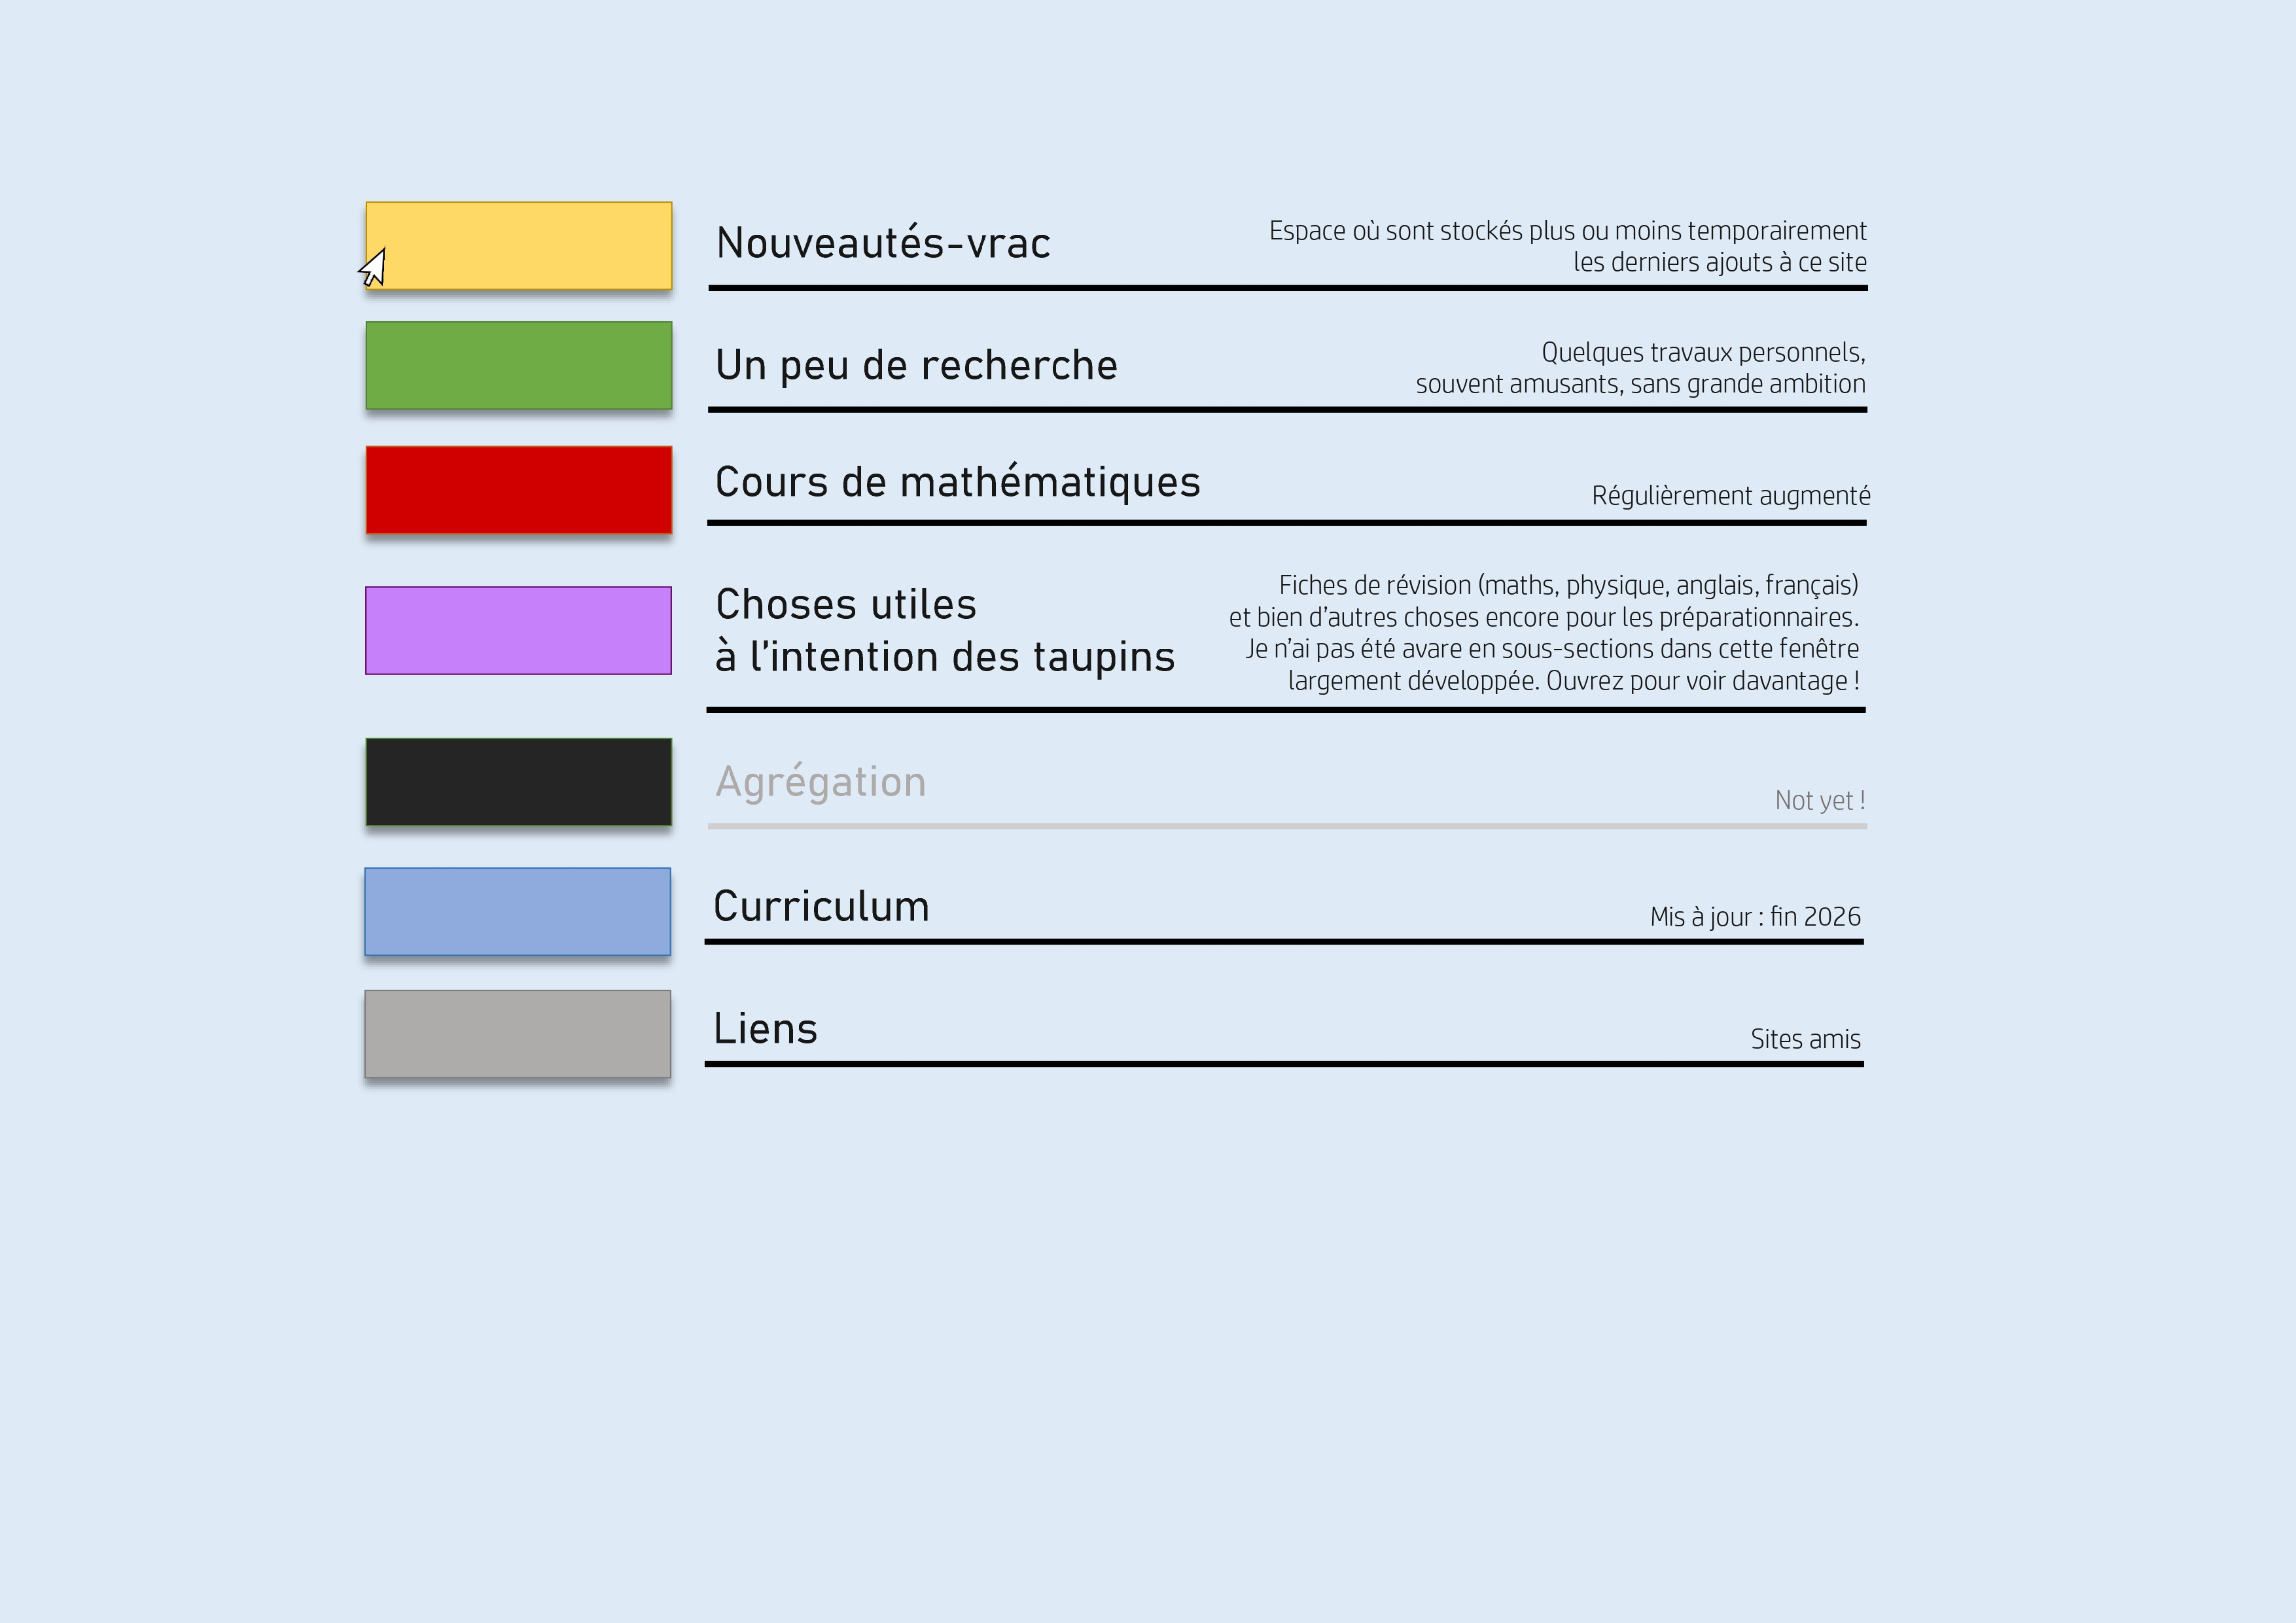
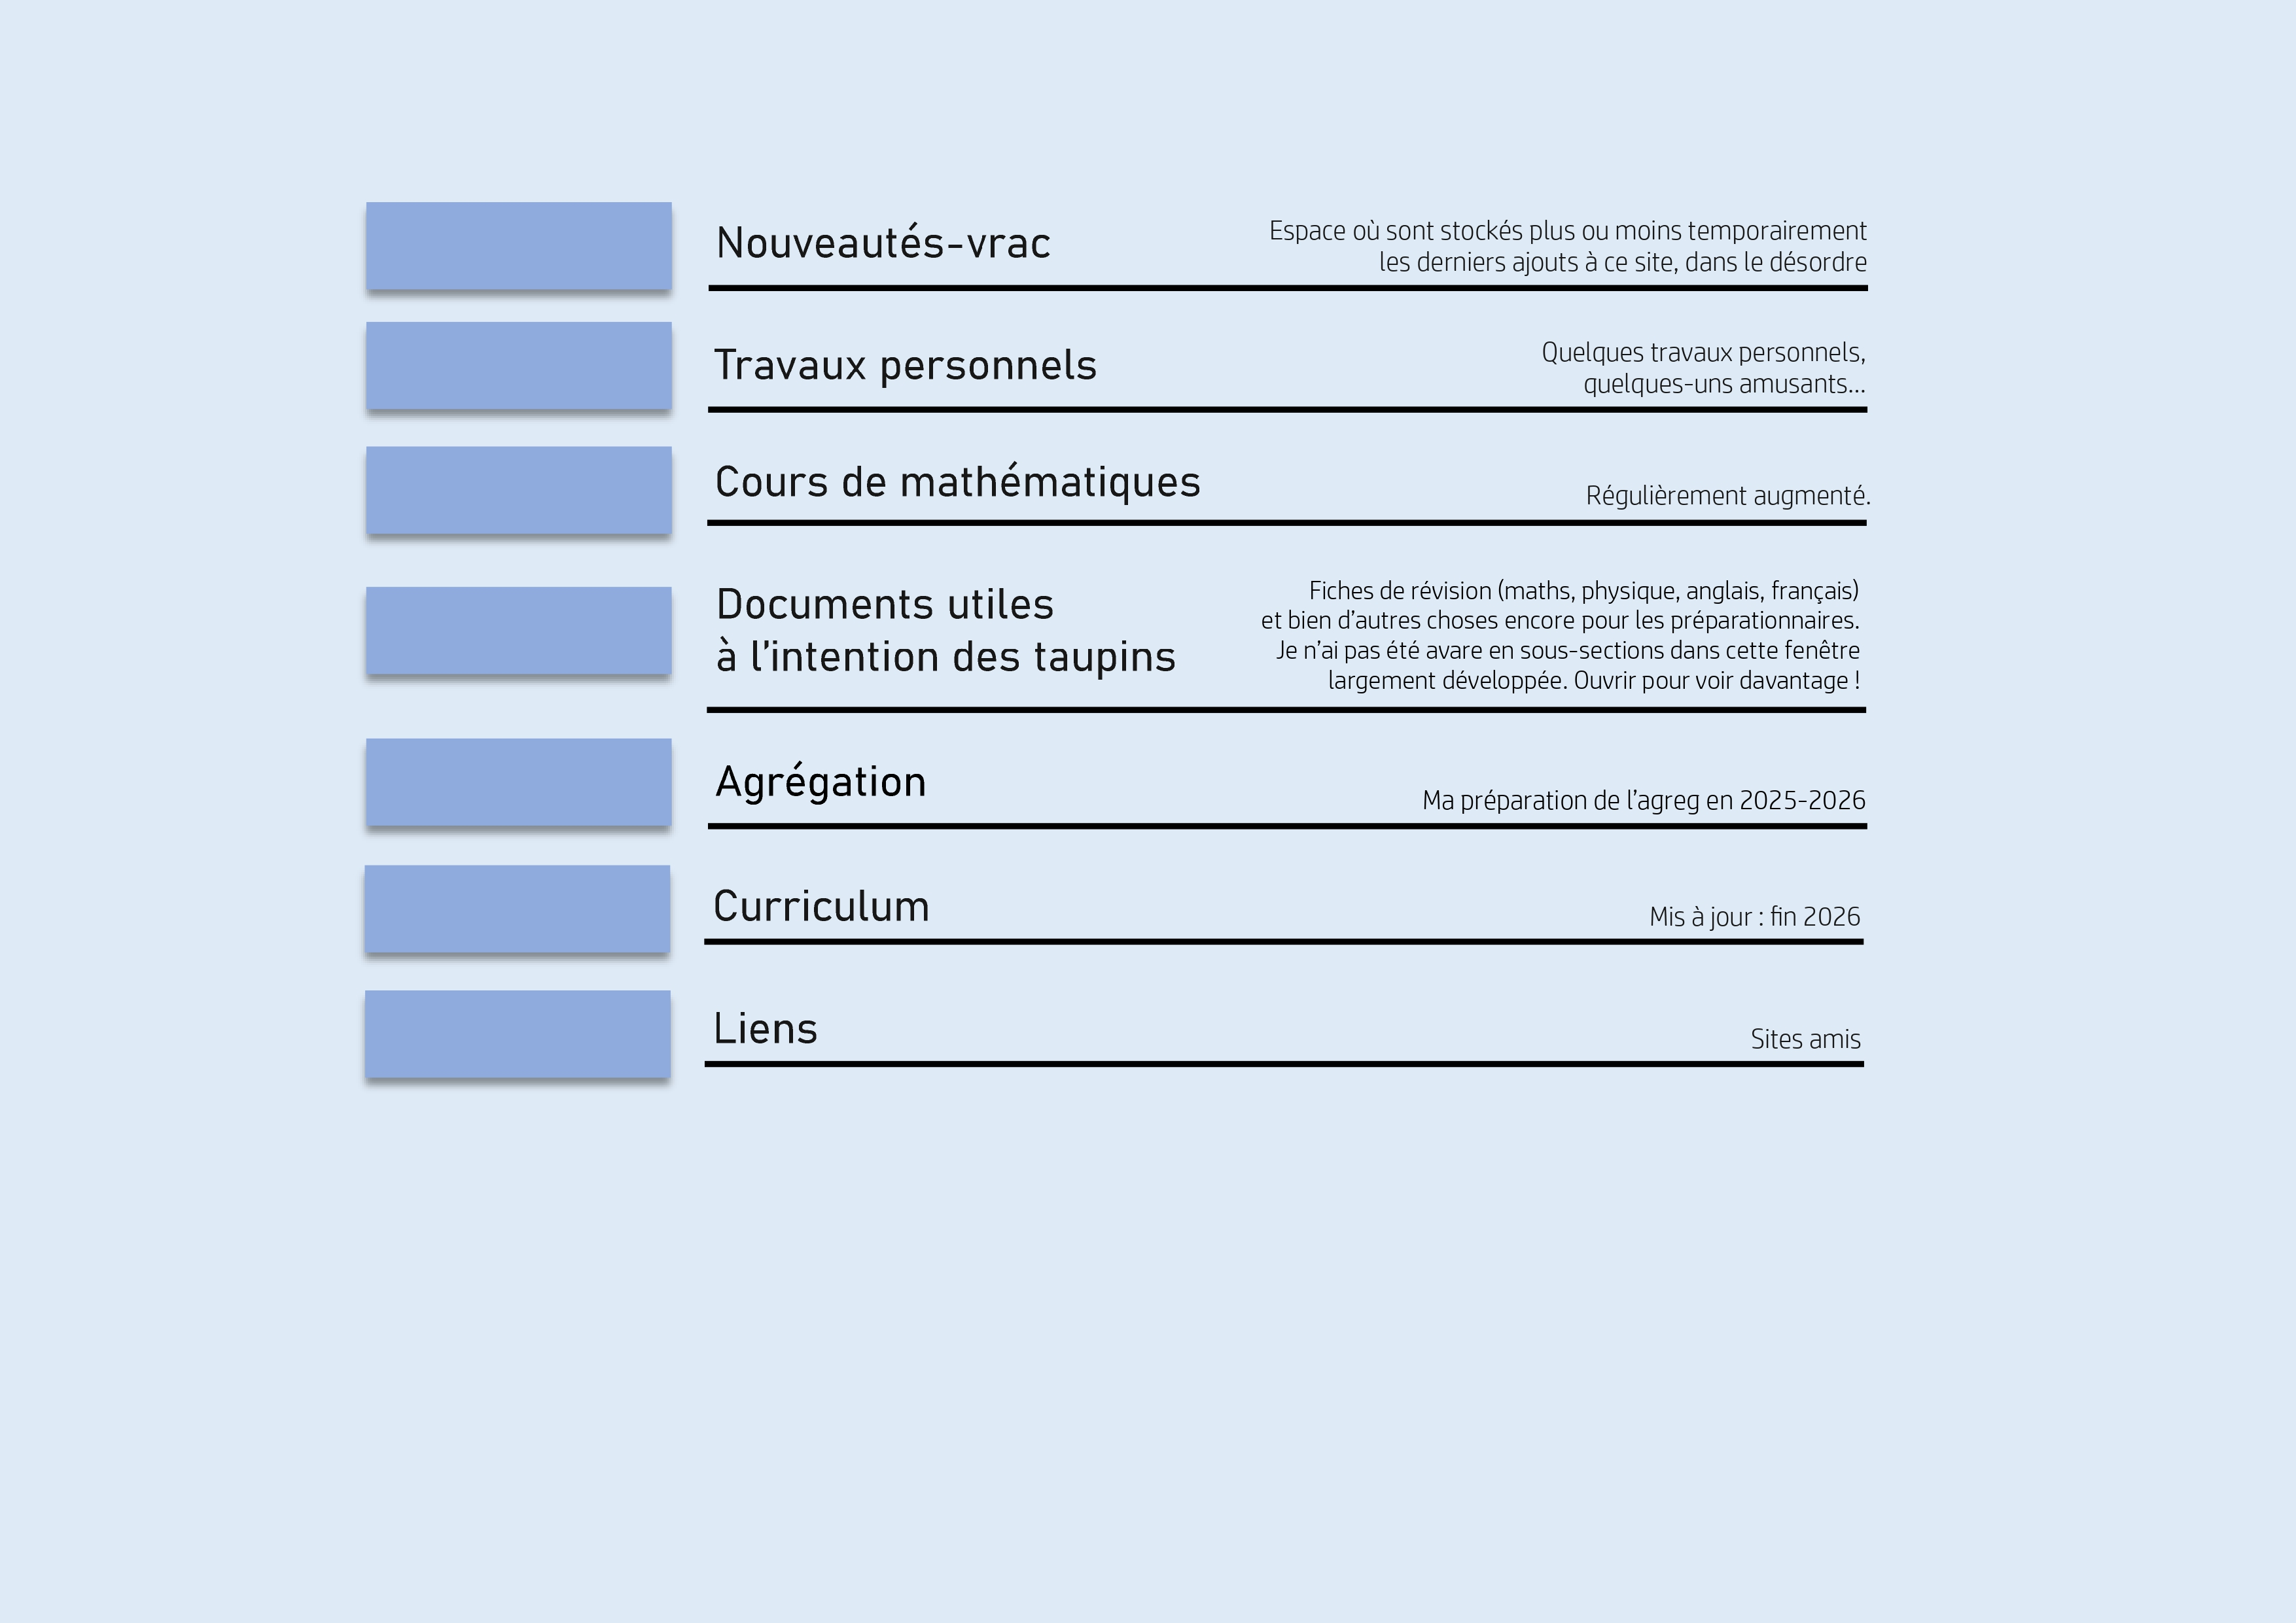
'maj'

diff --git a/Agreg.html b/Agreg.html
@@ -34,7 +34,7 @@
 
 
 <p>
-<i> À venir ! </i>
+<i> Mon compte Agregmaths : </i> <a href="https://agreg-maths.fr/users/67250"> https://agreg-maths.fr/users/67250 <a/>
 </p>
 <br>
 

diff --git a/index.html b/index.html
@@ -4,6 +4,8 @@
 <head>
 	<title>Louis Lascaud - Mathématiques</title>
 
+<meta name="google-site-verification" content="JfslvhLzUBKdWseJdCshv9DRkUrfDwU4v6HWMDAihe4" />
+
 <meta charset="utf-8">
 <meta name="viewport" content="width=device-width, initial-scale=1">
 <link rel="icon" type="image/ico" href="Images/logo.ico"/>